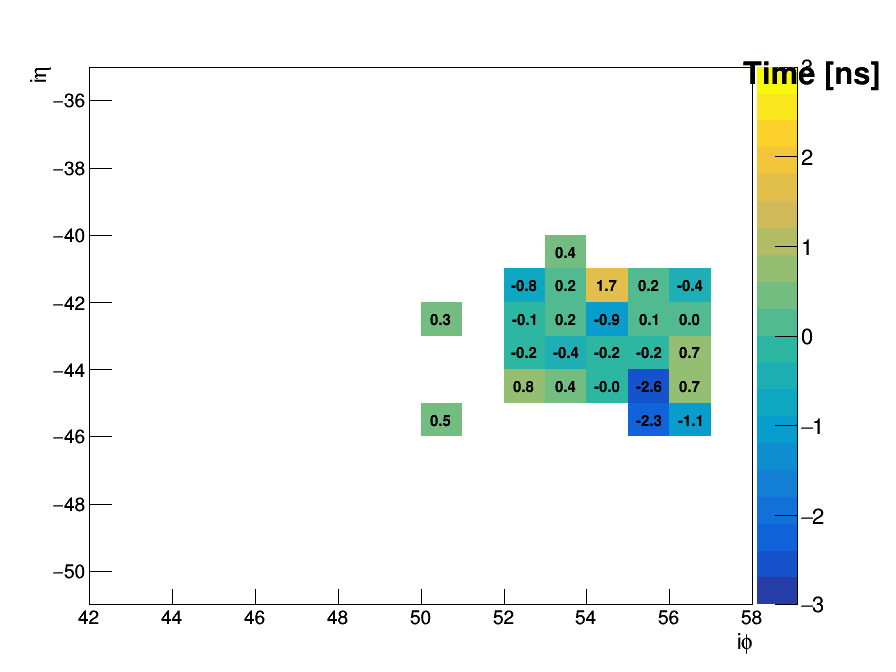
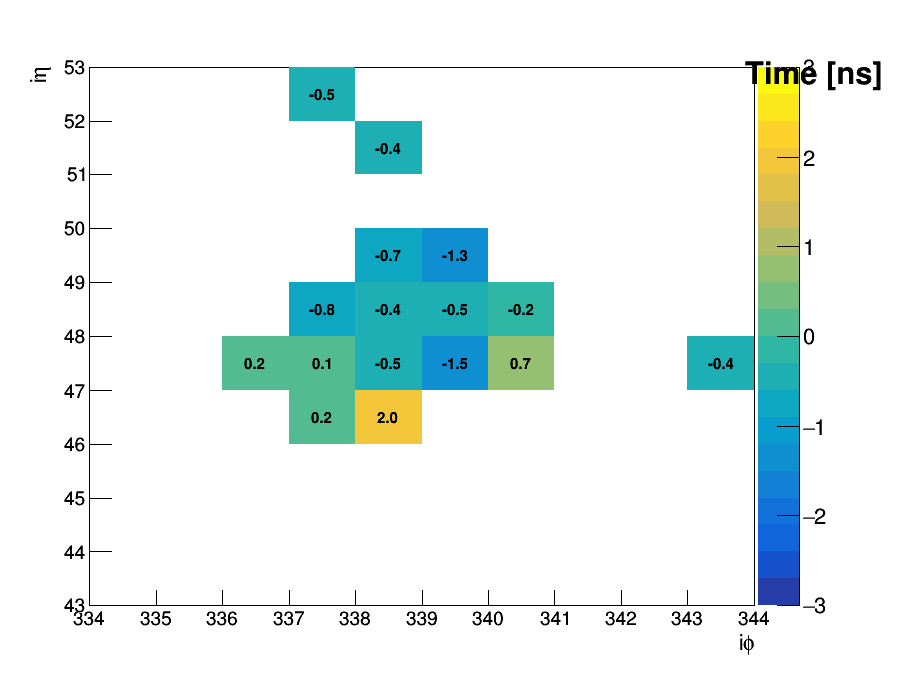
Updating EventFinder.py and zoom parameters on matt_checkplot.C

diff --git a/macros/matt_checkplot.C b/macros/matt_checkplot.C
@@ -4,12 +4,12 @@
   TFile f1("exomgg_0t_runC.root");
 
   //Specify the number of events to plot
-  int N = 2;
+  const int N = 2;
 
   gStyle->SetOptStat(0);
   //Setting coordinates for the cluster seeds
-  int etamax[4] = {-43, 80, 48, 12};
-  int phimax[4] = {50, 273, 340, 64};
+  int etamax[N] = {48, -43};
+  int phimax[N] = {340, 55};
 
 
   // read histograms from file
@@ -222,8 +222,8 @@
   char txt[30];
 
   for (int k=0; k<N; k++) {
-      eboccet->GetXaxis()->SetRangeUser(phimax[k]-8,phimax[k]+8);
-      eboccet->GetYaxis()->SetRangeUser(etamax[k]-8,etamax[k]+8);
+      eboccet->GetXaxis()->SetRangeUser(phimax[k]-6,phimax[k]+4);
+      eboccet->GetYaxis()->SetRangeUser(etamax[k]-5,etamax[k]+5);
       eboccet->Draw("colz,text");
       t1.DrawLatex(0.83,0.875,"E_{T} [GeV]");
       sprintf(txt,"plots/transverse_energy_zoom_%d.png",k+1);
@@ -258,8 +258,8 @@
   ebtime->SetMaximum(3);
 
   for (int k=0; k<N; k++)  {
-      ebtime->GetXaxis()->SetRangeUser(phimax[k]-8,phimax[k]+8);
-      ebtime->GetYaxis()->SetRangeUser(etamax[k]-8,etamax[k]+8);
+      ebtime->GetXaxis()->SetRangeUser(phimax[k]-6,phimax[k]+4);
+      ebtime->GetYaxis()->SetRangeUser(etamax[k]-5,etamax[k]+5);
       ebtime->Draw("colz,text");
       t1.DrawLatex(0.83,0.875,"Time [ns]");
       sprintf(txt,"plots/EB_rechit_time_zoomed_%d.png",k+1);
@@ -280,8 +280,8 @@
   ebicval->SetMaximum(3);
 
   for (int k=0; k<N; k++) {
-      ebicval->GetXaxis()->SetRangeUser(phimax[k]-8,phimax[k]+8);
-      ebicval->GetYaxis()->SetRangeUser(etamax[k]-8,etamax[k]+8);
+      ebicval->GetXaxis()->SetRangeUser(phimax[k]-6,phimax[k]+4);
+      ebicval->GetYaxis()->SetRangeUser(etamax[k]-5,etamax[k]+5);
       ebicval->Draw("colz,text");
       t1.DrawLatex(0.83,0.875,"IC");
       sprintf(txt,"plots/EB_intercalib_map_zoomed_%d.png",k+1);
@@ -303,8 +303,8 @@
   eblascorr->SetMaximum(3);
 
   for (int k=0; k<N; k++) {
-      eblascorr->GetXaxis()->SetRangeUser(phimax[k]-8,phimax[k]+8);
-      eblascorr->GetYaxis()->SetRangeUser(etamax[k]-8,etamax[k]+8);
+      eblascorr->GetXaxis()->SetRangeUser(phimax[k]-6,phimax[k]+4);
+      eblascorr->GetYaxis()->SetRangeUser(etamax[k]-5,etamax[k]+5);
       eblascorr->Draw("colz,text");
       t1.DrawLatex(0.83,0.875,"Las. corr.");
       sprintf(txt,"plots/Las_corr_zoomed_%d.png",k+1);

diff --git a/EventFinder.py b/EventFinder.py
@@ -9,14 +9,19 @@ filename = sys.argv[1]
 print filename
 nlines = 0
 linenum = 0
+text = 'DIGI found:'
+
 with open(filename) as f:
 	for line in f:
 		nlines += 1
 		if (line.find("kGood=0") >=  0):
-			print "Found bad event!"
-			linenum = nlines - 6
-			print linecache.getline(filename,linenum)
+    			print "Found bad event!"
+			print linecache.getline(filename,nlines-6)
 			print linecache.getline(filename,nlines-2)
+ 			s1 = linecache.getline(filename,nlines+17)
+  			if (len(s1)==13):
+			    for i in range(18,28):
+				print linecache.getline(filename,nlines+i)
 
 
 

diff --git a/macros/pulseshape.C b/macros/pulseshape.C
@@ -3,9 +3,11 @@
 
 
   // input ADC samples here
-  Float_t samples[10]={211,211,211,491,3964,1108,997,800,621,481};
+  Float_t samples[10]={200,201,200,233,1746,2208,1984,1564,1173,863};
+//  Float_t samples[10]={211,211,211,491,3964,1108,997,800,621,481};
   // input gain ratio:  gain12=1, gain6=2, gain1=12
-  Float_t gain[10]={1.,1.,1.,1.,2.,12.,12.,12.,12.,12.};
+  Float_t gain[10]={1.,1.,1.,1.,1.,1.,1.,1.,1.,1.};
+//  Float_t gain[10]={1.,1.,1.,1.,2.,12.,12.,12.,12.,12.};
 
 
 
